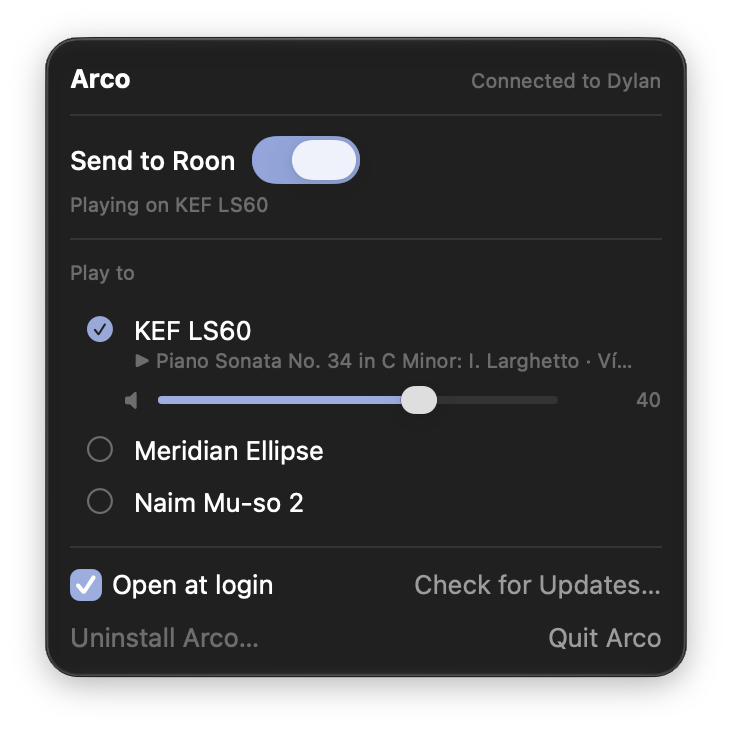
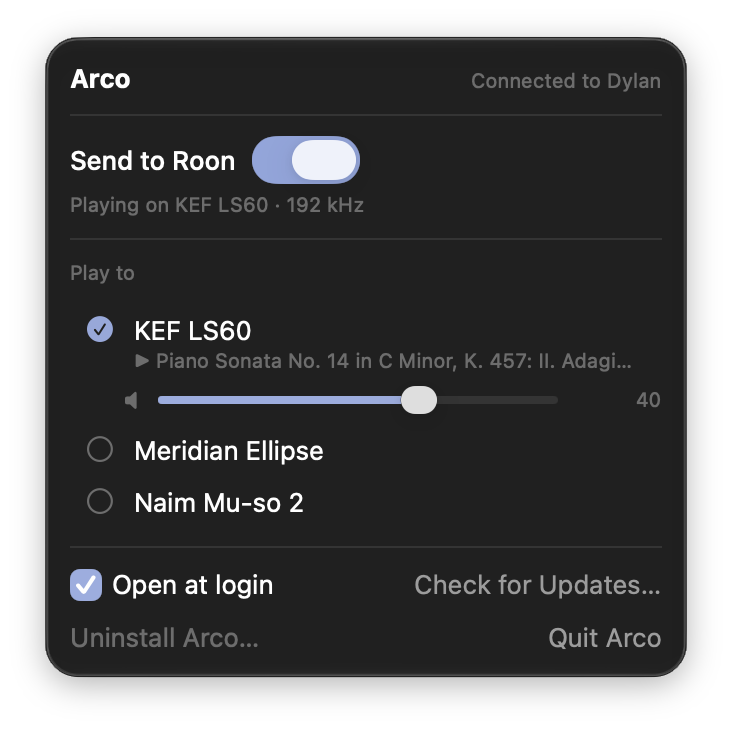
README: the menu with the rate Roon receives

Changed region(s): [[0.4508, 0.4822, 0.8415, 0.5123], [0.3907, 0.2712, 0.5109, 0.3014]]

diff --git a/README.md b/README.md
@@ -6,7 +6,7 @@ Arco takes what the Music app (or the Spotify app) plays on your Mac and hands i
 title, artist, album and cover of each track. Roon does the rest: your zones, your DSP, your endpoints — including the
 ones that only speak RAAT.
 
-<p align="center"><img src="docs/menu.png" width="368" alt="Arco's menu: Send to Roon switched on, playing on the KEF LS60 zone, with its volume, and the other Roon zones below"></p>
+<p align="center"><img src="docs/menu.png" width="368" alt="Arco's menu: Send to Roon switched on, playing on the KEF LS60 zone at 192 kHz, with its volume, and the other Roon zones below"></p>
 
 > **Status:** beta. It works well in daily use here; expect rough edges, and please report them.
 
